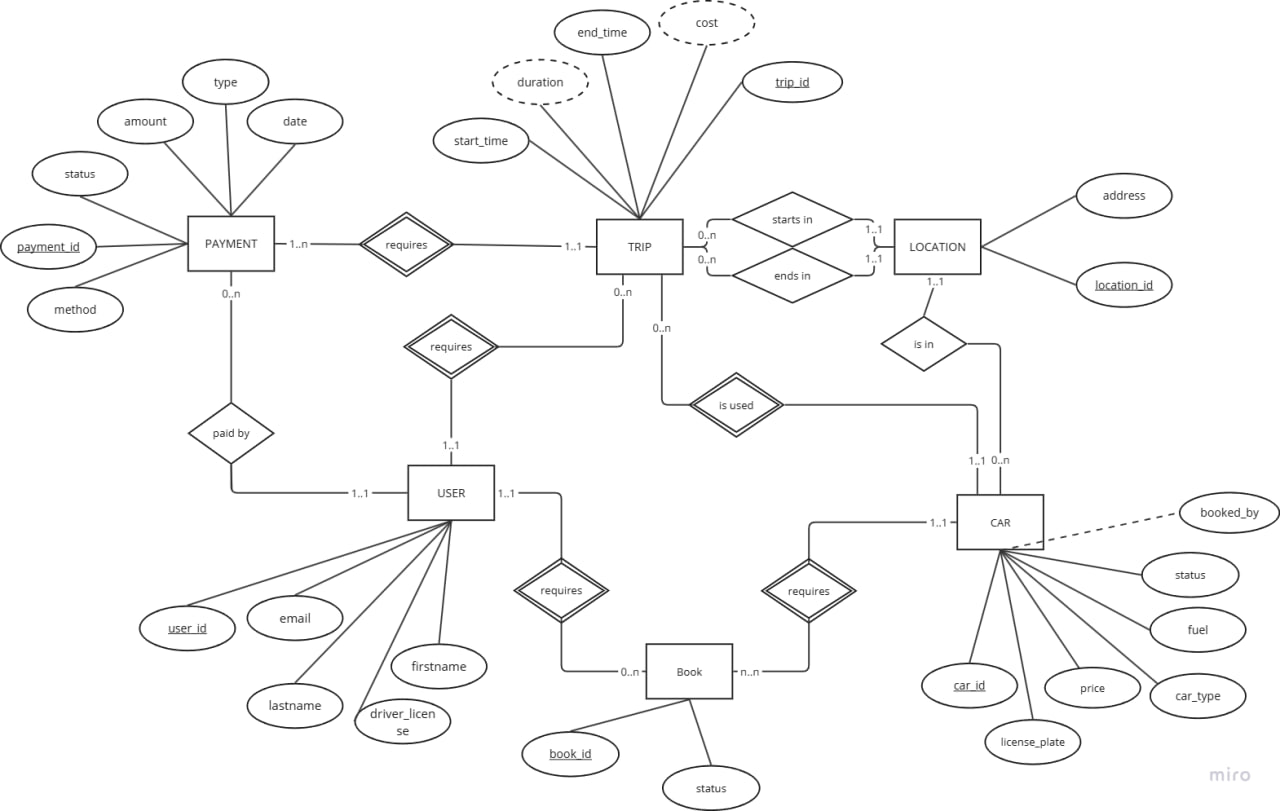
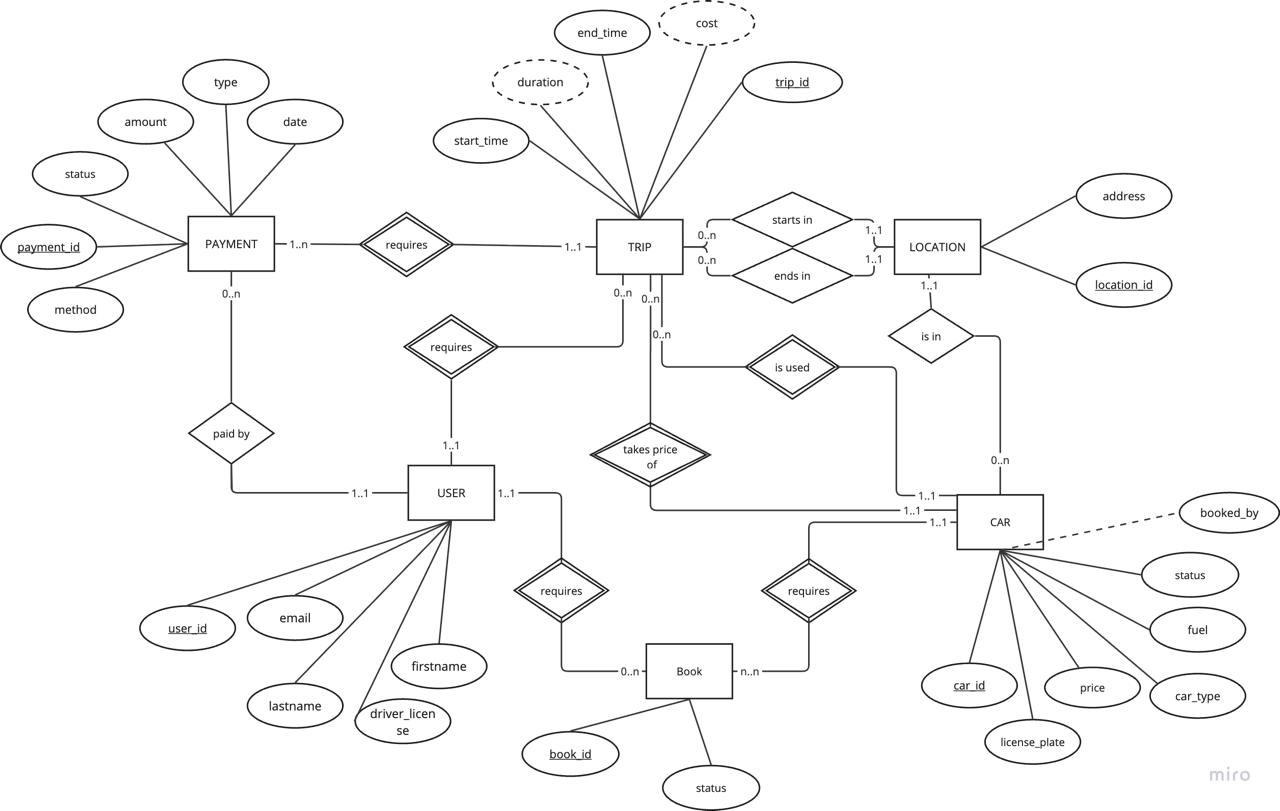
feat(Lab1): add trip - car relation (trip takes price of a car

diff --git a/Lab1/schema.ts b/Lab1/schema.ts
@@ -35,17 +35,17 @@ class Trip {
     public end_time: Date,
     public start_location: CarLocation,
     public end_location: CarLocation,
-    public car: Car,
-    public user: User,
+    public car_id: Car,
+    public car_price: Car['price'],
+    public user_id: User,
   ) {
-    const diffMs = this.end_time.getTime() - this.start_time.getTime();
-    const diffMins = Math.floor(diffMs / (1000 * 60));
-    const hours = Math.floor(diffMins / 60);
-    const minutes = diffMins % 60;
-    
-    this.duration = `${hours}h ${minutes}m`;
+    const milliseconds = this.end_time.getTime() - this.start_time.getTime();
+    const minutes = Math.ceil(milliseconds / (1000 * 60));
+    const hours = Math.ceil(minutes / 60);
 
-    this.cost = this.car.price * diffMins;
+    this.duration = `${hours}h`;
+
+    this.cost = this.car_price * hours;
   }
 }
 

diff --git a/Lab1/mermaid.md b/Lab1/mermaid.md
@@ -25,6 +25,7 @@ string address
 TRIP {
 int trip_id PK
 int car_id FK
+int car_price FK
 int user_id FK
 datetime start_time
 datetime end_time
@@ -55,6 +56,7 @@ int trip_id FK
     USER||--o{PAYMENT:"makes"
     TRIP||--|{PAYMENT:"has"
     TRIP}o--||CAR:"uses"
+    TRIP}|--||CAR:"takes price of"
     LOCATION||--o{TRIP:"starts_in"
     LOCATION||--o{TRIP:"ends_in"
     LOCATION||--o{CAR:"is_in"
@@ -87,6 +89,7 @@ string address
 TRIP {
 int trip_id PK
 int car_id FK
+int car_price FK
 int user_id FK
 datetime start_time
 datetime end_time
@@ -117,6 +120,7 @@ int trip_id FK
     USER||--o{PAYMENT:"makes"
     TRIP||--|{PAYMENT:"has"
     TRIP}o--||CAR:"uses"
+    TRIP}|--||CAR:"takes price of"
     LOCATION||--o{TRIP:"starts_in"
     LOCATION||--o{TRIP:"ends_in"
     LOCATION||--o{CAR:"is_in"
